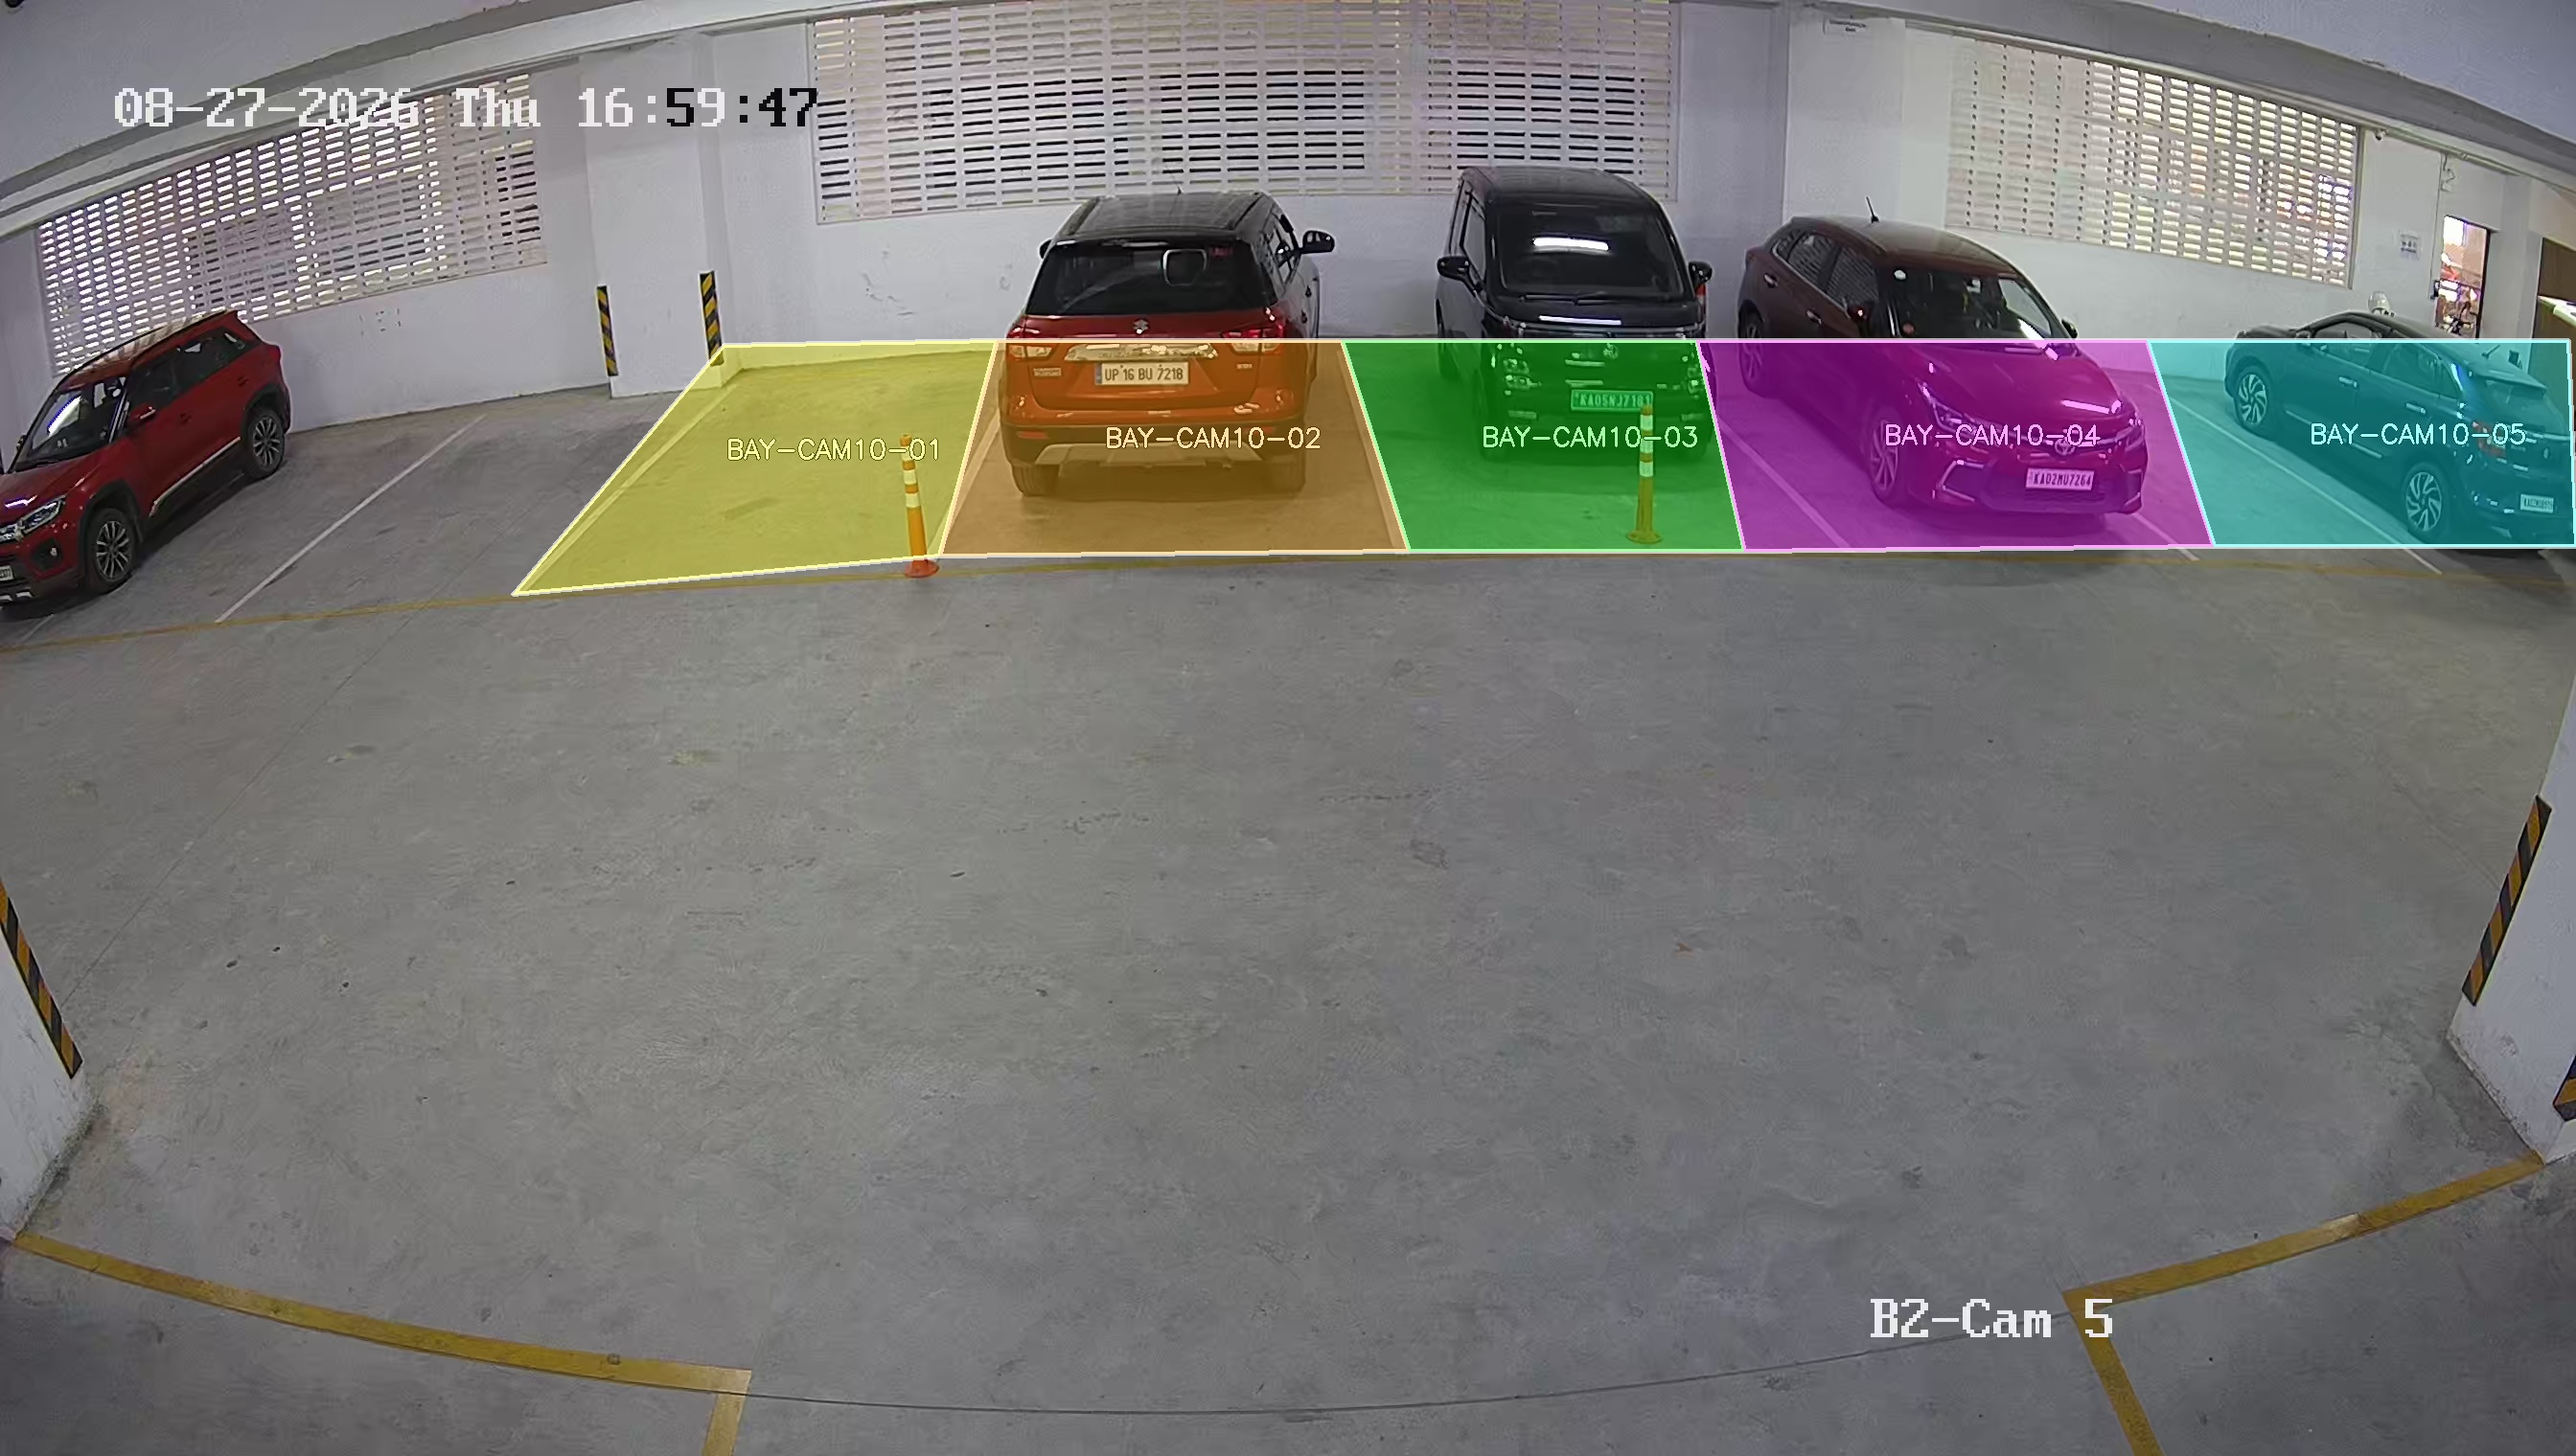
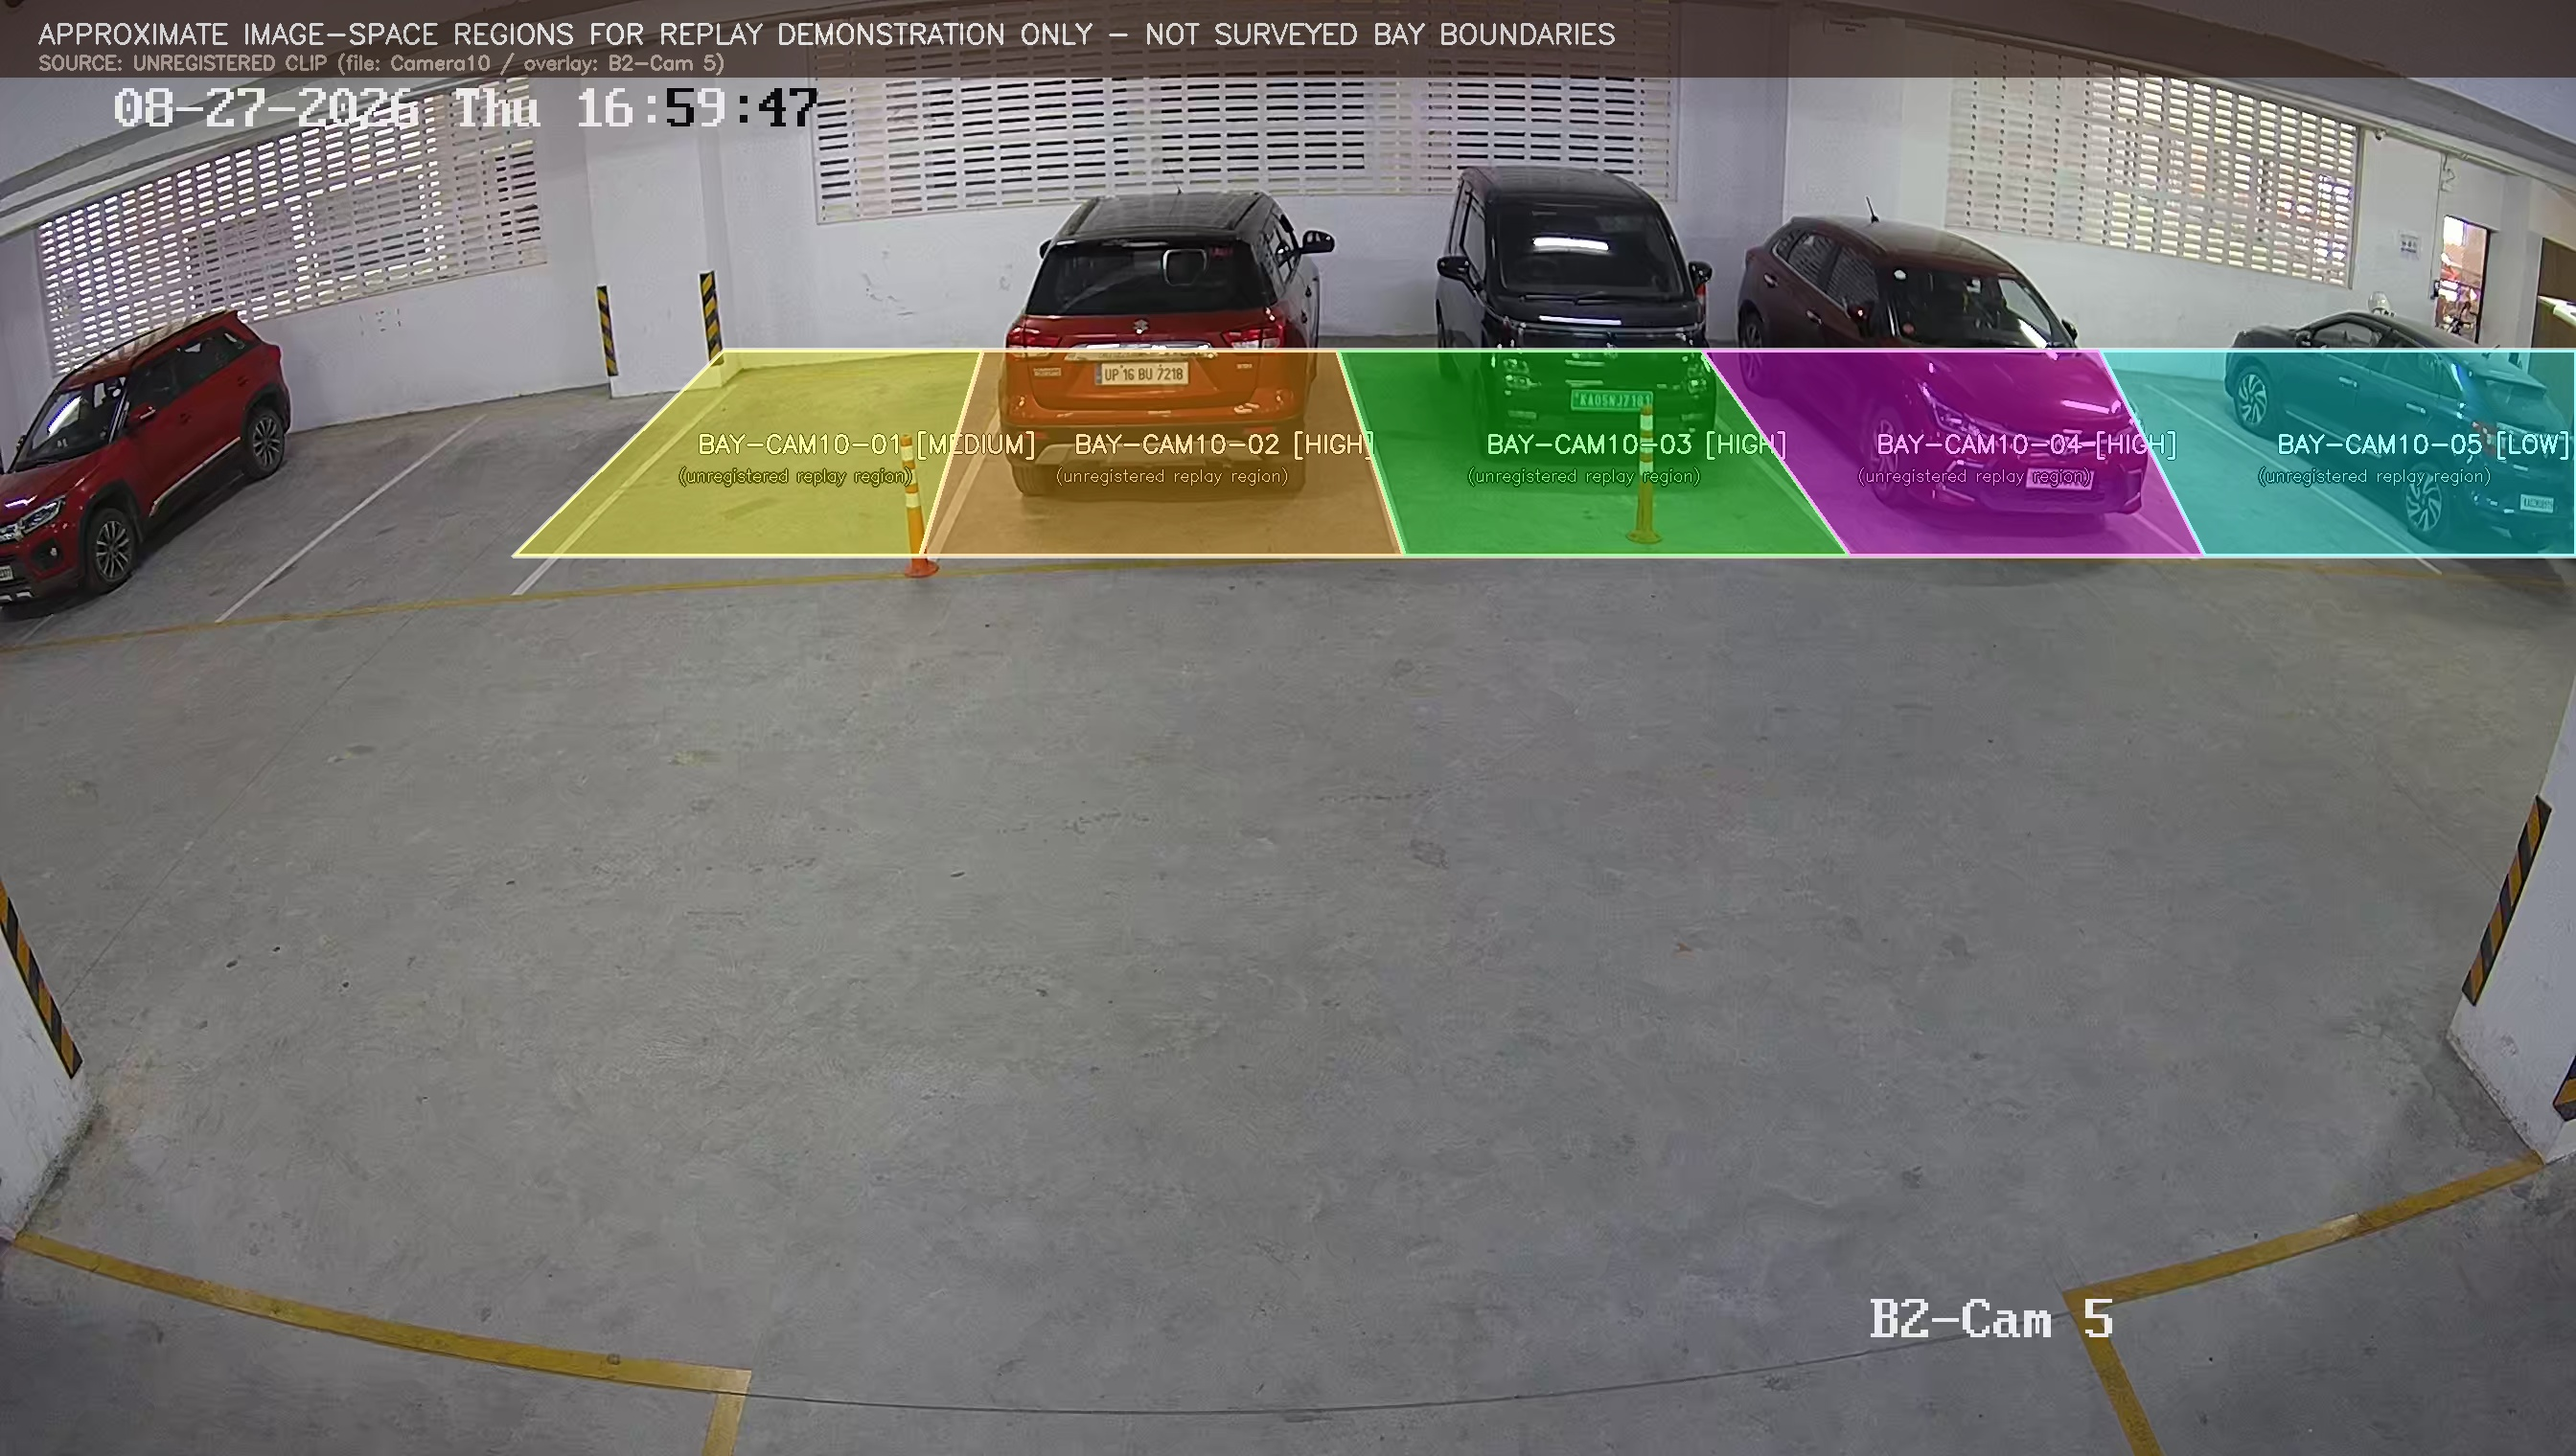
chore(replay): align cam10 polygons with visible painted lines and mark unregistered_replay_region

Changed region(s): [[0.1875, 0.2164, 1.0, 0.4329], [0.0, 0.0, 1.0, 0.0618]]

diff --git a/scripts/generate_replay_evidence.py b/scripts/generate_replay_evidence.py
@@ -29,6 +29,27 @@ def main():
         (255, 255, 0),  # Cyan
     ]
 
+    # Draw header banner
+    cv2.rectangle(frame, (0, 0), (frame.shape[1], 80), (15, 23, 42), -1)
+    cv2.putText(
+        frame,
+        "APPROXIMATE IMAGE-SPACE REGIONS FOR REPLAY DEMONSTRATION ONLY - NOT SURVEYED BAY BOUNDARIES",
+        (40, 45),
+        cv2.FONT_HERSHEY_SIMPLEX,
+        0.95,
+        (255, 255, 255),
+        2,
+    )
+    cv2.putText(
+        frame,
+        f"SOURCE: {cam10.get('clip_identity', 'UNREGISTERED CLIP')}",
+        (40, 72),
+        cv2.FONT_HERSHEY_SIMPLEX,
+        0.65,
+        (148, 163, 184),
+        2,
+    )
+
     for idx, (bay_id, bay_info) in enumerate(cam10["bays"].items()):
         pts = np.array(bay_info["polygon_pixels"], dtype=np.int32)
         color = colors[idx % len(colors)]
@@ -38,8 +59,12 @@ def main():
         # Label position: near centroid
         cx = int(np.mean(pts[:, 0]))
         cy = int(np.mean(pts[:, 1]))
-        cv2.putText(frame, bay_id, (cx - 70, cy), cv2.FONT_HERSHEY_SIMPLEX, 0.9, (0, 0, 0), 4)
-        cv2.putText(frame, bay_id, (cx - 70, cy), cv2.FONT_HERSHEY_SIMPLEX, 0.9, (255, 255, 255), 2)
+        conf = bay_info.get("confidence", "high").upper()
+        lbl_text = f"{bay_id} [{conf}]"
+        cv2.putText(frame, lbl_text, (cx - 90, cy), cv2.FONT_HERSHEY_SIMPLEX, 0.85, (0, 0, 0), 4)
+        cv2.putText(frame, lbl_text, (cx - 90, cy), cv2.FONT_HERSHEY_SIMPLEX, 0.85, (255, 255, 255), 2)
+        cv2.putText(frame, "(unregistered replay region)", (cx - 110, cy + 30), cv2.FONT_HERSHEY_SIMPLEX, 0.55, (0, 0, 0), 3)
+        cv2.putText(frame, "(unregistered replay region)", (cx - 110, cy + 30), cv2.FONT_HERSHEY_SIMPLEX, 0.55, (226, 232, 240), 1)
 
     cv2.addWeighted(overlay, 0.35, frame, 0.65, 0, frame)
     cv2.imwrite(str(evidence_path), frame)
